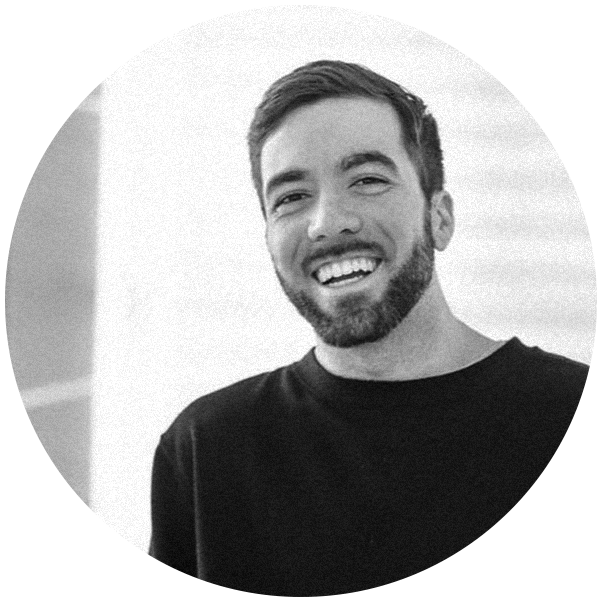
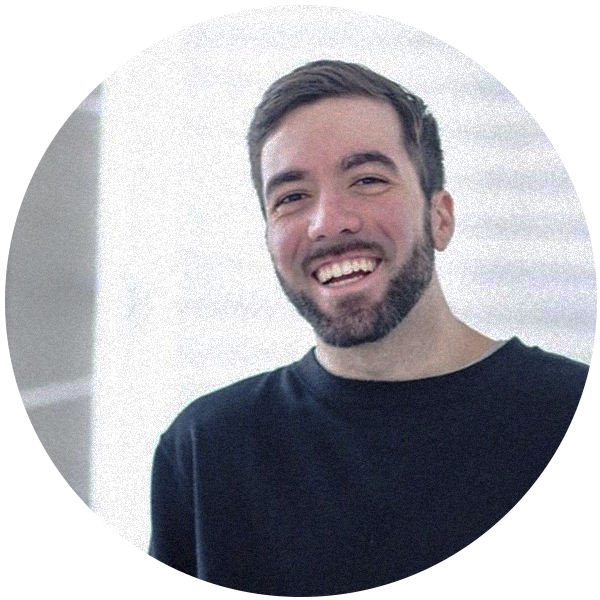
mais alterações nos estilos, cores dos bolds, e implementação do footer com links behance e github

diff --git a/components/Header/styles/style.module.css b/components/Header/styles/style.module.css
@@ -1,6 +1,6 @@
 .headerContainer {
   width: 100%;
-  height: 100vh;
+  margin-top: 3rem;
   display: -webkit-box;
   display: -ms-flexbox;
   display: flex;
@@ -17,7 +17,7 @@
 }
 
 .headerContainer b {
-  color: #02ebeb;
+  color: #02eb8a;
 }
 
 .headerContainer .headTextAndImg {
@@ -43,16 +43,21 @@
 }
 
 .headerContainer .headTextAndImg img {
-  -webkit-transition: opacity .2s ease-in-out;
-  transition: opacity .2s ease-in-out;
+  -webkit-filter: grayscale(100%);
+          filter: grayscale(100%);
+  -webkit-transition: -webkit-filter .2s ease-in-out;
+  transition: -webkit-filter .2s ease-in-out;
+  transition: filter .2s ease-in-out;
+  transition: filter .2s ease-in-out, -webkit-filter .2s ease-in-out;
 }
 
 .headerContainer .headTextAndImg img:hover {
-  opacity: .6;
+  -webkit-filter: grayscale(0%) contrast(130%);
+          filter: grayscale(0%) contrast(130%);
 }
 
 .headerContainer .about {
-  width: 90%;
+  max-width: 90%;
   margin: 1rem 0;
   border-top: 2px solid #f2f2f2;
   border-bottom: 2px solid #f2f2f2;
@@ -61,8 +66,8 @@
 }
 
 .headerContainer .about:hover {
-  border-top: 2px solid #02ebeb;
-  border-bottom: 2px solid #02ebeb;
+  border-top: 2px solid #02eb8a;
+  border-bottom: 2px solid #02eb8a;
 }
 
 .headerContainer .about p {
@@ -79,8 +84,8 @@
   -webkit-box-direction: normal;
       -ms-flex-direction: column;
           flex-direction: column;
-  text-align: center;
   padding-left: 0;
+  margin: .7rem 0 0 0;
 }
 
 .headerContainer .aboutList li:not(:last-child) {
@@ -95,9 +100,84 @@
   padding-bottom: .2rem;
   font-weight: bold;
   cursor: pointer;
+  display: -webkit-box;
+  display: -ms-flexbox;
+  display: flex;
+  -webkit-box-align: center;
+      -ms-flex-align: center;
+          align-items: center;
+  -webkit-box-pack: center;
+      -ms-flex-pack: center;
+          justify-content: center;
+}
+
+.headerContainer .aboutList li span {
+  padding-left: .3rem;
 }
 
 .headerContainer .aboutList li:hover {
-  border-bottom: #02ebeb solid 2px;
+  border-bottom: #02eb8a solid 2px;
+}
+
+.headerContainer .socialContact {
+  margin-top: 1.8rem;
+  width: 90%;
+  display: -webkit-box;
+  display: -ms-flexbox;
+  display: flex;
+  -webkit-box-pack: justify;
+      -ms-flex-pack: justify;
+          justify-content: space-between;
+  padding-top: 2rem;
+  border-top: 2px solid #f2f2f2;
+}
+
+.headerContainer .socialContact a {
+  color: #f2f2f2;
+  font-size: 2.5rem;
+  -webkit-transition: all .3s ease-in-out;
+  transition: all .3s ease-in-out;
+}
+
+.headerContainer .socialContact a:hover {
+  color: #02eb8a;
+}
+
+.headerContainer .socialContact a:first-child {
+  margin-left: 2rem;
+}
+
+.headerContainer .socialContact a:last-child {
+  margin-right: 2rem;
+}
+
+@media screen and (min-width: 900px) {
+  .headerContainer {
+    margin-top: 0;
+    height: 100vh;
+  }
+  .headerContainer .headTextAndImg h1 {
+    font-size: 5rem;
+  }
+  .headerContainer .headTextAndImg img {
+    width: 180px;
+    height: 180px;
+  }
+  .headerContainer .about {
+    max-width: 40%;
+  }
+  .headerContainer .aboutList {
+    -webkit-box-orient: horizontal;
+    -webkit-box-direction: normal;
+        -ms-flex-direction: row;
+            flex-direction: row;
+  }
+  .headerContainer .aboutList li:not(:last-child) {
+    margin-bottom: 0;
+    margin-right: 4.5rem;
+  }
+  .headerContainer .socialContact {
+    max-width: 70%;
+  }
 }
 /*# sourceMappingURL=style.module.css.map */

diff --git a/components/Header/styles/style.module.scss b/components/Header/styles/style.module.scss
@@ -1,13 +1,13 @@
 .headerContainer {
     width: 100%;
-    height: 100vh;
+    margin-top: 3rem;
     display: flex;
     align-items: center;
     justify-content: center;
     flex-direction: column;
 
     b {
-        color: rgb(2, 235, 235);
+        color: rgb(2, 235, 138);
     }
 
     .headTextAndImg {
@@ -23,24 +23,25 @@
         }
 
         img {
-            transition: opacity .2s ease-in-out;
+            filter: grayscale(100%);
+            transition: filter .2s ease-in-out;
 
             &:hover {
-                opacity: .6;
+                filter: grayscale(0%) contrast(130%);
             }
         }
     }
 
     .about {
-        width: 90%;
+        max-width: 90%;
         margin: 1rem 0;
         border-top: 2px solid #f2f2f2;
         border-bottom: 2px solid #f2f2f2;
         transition: all .2s ease-in-out;
 
         &:hover {
-            border-top: 2px solid rgb(2, 235, 235);
-            border-bottom: 2px solid rgb(2, 235, 235);
+            border-top: 2px solid rgb(2, 235, 138);
+            border-bottom: 2px solid rgb(2, 235, 138);
         }
         
         p {
@@ -53,8 +54,8 @@
     .aboutList {
         display: flex;
         flex-direction: column;
-        text-align: center;
         padding-left: 0;
+        margin: .7rem 0 0 0;
 
         li:not(:last-child) {
             margin-bottom: .6rem;
@@ -67,10 +68,79 @@
             padding-bottom: .2rem;
             font-weight: bold;
             cursor: pointer;
+            display: flex;
+            align-items: center;
+            justify-content: center;
+
+            span {
+                padding-left: .3rem;
+            }
 
             &:hover {
-                border-bottom: rgb(2, 235, 235) solid 2px;
+                border-bottom: rgb(2, 235, 138) solid 2px;
             }
+        }
+    }
+
+    .socialContact {
+        margin-top: 1.8rem;
+        width: 90%;
+        display: flex;
+        justify-content: space-between;
+        padding-top: 2rem;
+        border-top: 2px solid #f2f2f2;
+
+        a {
+            color: #f2f2f2;
+            font-size: 2.5rem;
+            transition: all .3s ease-in-out;
+
+            &:hover {
+                color: rgb(2, 235, 138);
+            }
+
+            &:first-child {
+                margin-left: 2rem;
+            }
+
+            &:last-child {
+                margin-right: 2rem;
+            }
+        }
+    }
+}
+
+@media screen and (min-width: 900px) {
+    .headerContainer {
+        margin-top: 0;
+        height: 100vh;
+
+        .headTextAndImg {
+            h1 {
+                font-size: 5rem;
+            }
+
+            img {
+                width: 180px;
+                height: 180px;
+            }
+        }
+
+        .about {
+            max-width: 40%;
+        }
+
+        .aboutList {
+            flex-direction: row;
+
+            li:not(:last-child) {
+                margin-bottom: 0;
+                margin-right: 4.5rem;
+            }
+        }
+
+        .socialContact {
+            max-width: 70%;
         }
     }
 }

diff --git a/components/Header/Header.jsx b/components/Header/Header.jsx
@@ -1,4 +1,6 @@
 import styles from './styles/style.module.css';
+import { FaUserTag, FaBezierCurve, FaGraduationCap, FaGlobe, FaBehanceSquare, FaGithub } from "react-icons/fa";
+import Link from 'next/link';
 
 export default function Header() {
     return (
@@ -14,7 +16,7 @@ export default function Header() {
 
                 <div className={ styles.about }>
                     <p>
-                        <b>Web designer,</b> residente em Curitiba/PR, graduado em Design Gráfico pela Unicuritiba.
+                        <b>Web designer,</b> morando em Curitiba/PR, graduado em Design Gráfico pela Unicuritiba.
                     </p>
 
                     <p>
@@ -24,11 +26,53 @@ export default function Header() {
 
 
                 <ul className={ styles.aboutList }>
-                    <li>Mais sobre mim</li>
-                    <li>Meus trabalhos</li>
-                    <li>Minhas aptidões</li>
-                    <li>Contato</li>
+                    <li>
+                        <Link href='/about' passHref>
+                            <a>
+                                <FaUserTag />
+                                <span>Mais sobre mim</span>
+                            </a>
+                        </Link>
+                    </li>
+                    <li>
+                        <Link href='/jobs' passHref>
+                            <a>
+                                <FaBezierCurve />
+                                <span>Trabalhos/Projetos</span>
+                            </a>
+                        </Link>
+                    </li>
+                    <li>
+                        <Link href='/experiences' passHref>
+                            <a>
+                                <FaGraduationCap />
+                                <span>Experiência</span>
+                            </a>
+                        </Link>
+                    </li>
+                    <li>
+                        <Link href='/contact' passHref>
+                            <a>
+                                <FaGlobe />
+                                <span>Contato</span>
+                            </a>
+                        </Link>
+                    </li>
                 </ul>
+
+                <div className={ styles.socialContact }>
+                    <span>
+                        <Link href='https://www.behance.net/eduardosgndfc0'>
+                            <a><FaBehanceSquare /></a>
+                        </Link>
+                    </span>
+
+                    <span>
+                        <Link href='https://github.com/eduardosgn'>
+                            <a><FaGithub /></a>
+                        </Link>
+                    </span>
+                </div>
             </div>
         </>
     );

diff --git a/pages/experiences.jsx b/pages/experiences.jsx
@@ -1,0 +1,9 @@
+export default function Exp() {
+    return (
+        <>
+            <h1>
+                Experiências
+            </h1>
+        </>
+    );
+};

diff --git a/pages/contact.jsx b/pages/contact.jsx
@@ -1,0 +1,9 @@
+export default function Contact() {
+    return (
+        <>
+            <h1>
+                Contato
+            </h1>
+        </>
+    );
+};

diff --git a/pages/jobs.jsx b/pages/jobs.jsx
@@ -1,0 +1,7 @@
+export default function Jobs() {
+    return (
+        <>
+            <h1>Trabalhos/Projetos</h1>
+        </>
+    );
+};

diff --git a/pages/about.jsx b/pages/about.jsx
@@ -1,0 +1,7 @@
+export default function About() {
+    return (
+        <>
+            <h1>Sobre mim</h1>
+        </>
+    );
+};
